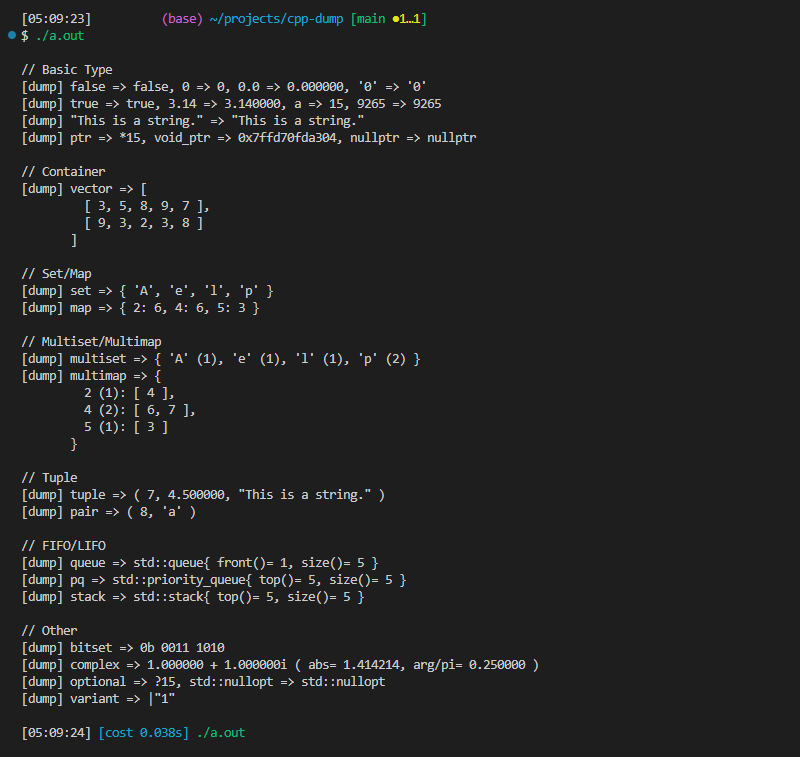
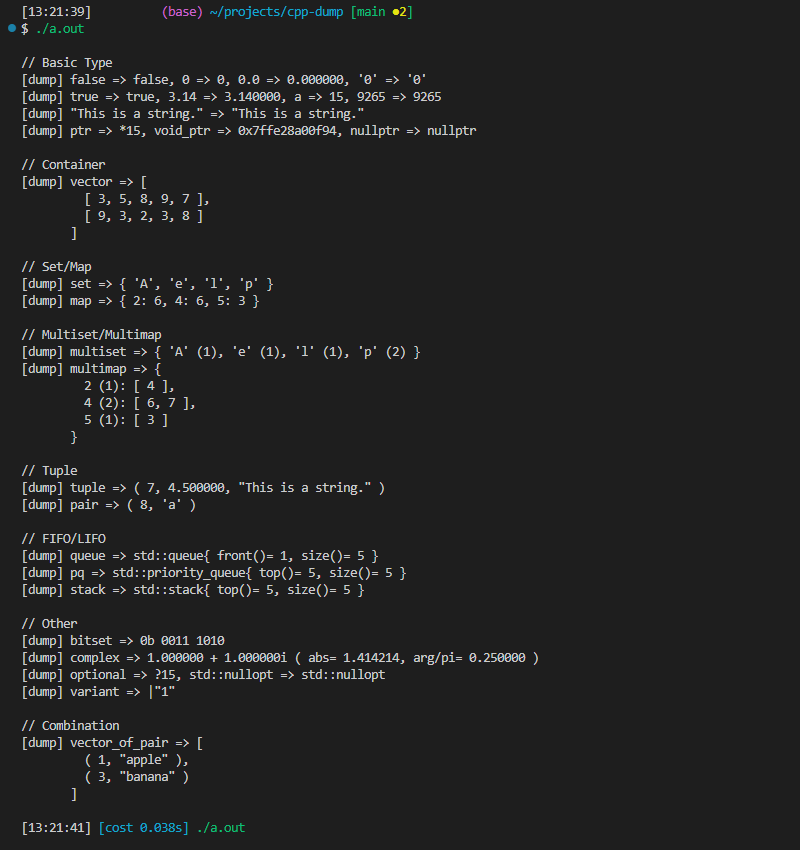
improve README.md

diff --git a/readme/supports-various-types.cpp b/readme/supports-various-types.cpp
@@ -32,6 +32,7 @@ int main() {
   std::complex<double> complex{1.0, 1.0};
   std::optional<int> optional{15};
   std::variant<int, std::string> variant{"1"};
+  std::vector<std::pair<int, std::string>> vector_of_pair{{1, "apple"}, {3, "banana"}};
 
   std::clog << "\n// Basic Type" << std::endl;
   CPP_DUMP(false, 0, 0.0, '0'), CPP_DUMP(true, 3.14, a, 9265);
@@ -55,6 +56,9 @@ int main() {
   std::clog << "\n// Other" << std::endl;
   CPP_DUMP(bitset), CPP_DUMP(complex);
   CPP_DUMP(optional, std::nullopt), CPP_DUMP(variant);
+
+  std::clog << "\n// Combination" << std::endl;
+  CPP_DUMP(vector_of_pair);
 
   std::clog << std::endl;
 }

diff --git a/README.md b/README.md
@@ -73,6 +73,9 @@ CPP_DUMP(queue); CPP_DUMP(pq); CPP_DUMP(stack);
 std::clog << "\n// Other" << std::endl;
 CPP_DUMP(bitset); CPP_DUMP(complex);
 CPP_DUMP(optional, std::nullopt); CPP_DUMP(variant);
+
+std::clog << "\n// Combination" << std::endl;
+CPP_DUMP(vector_of_pair);
 ```
 
 ![supports-various-types.png](./readme/supports-various-types.png)
